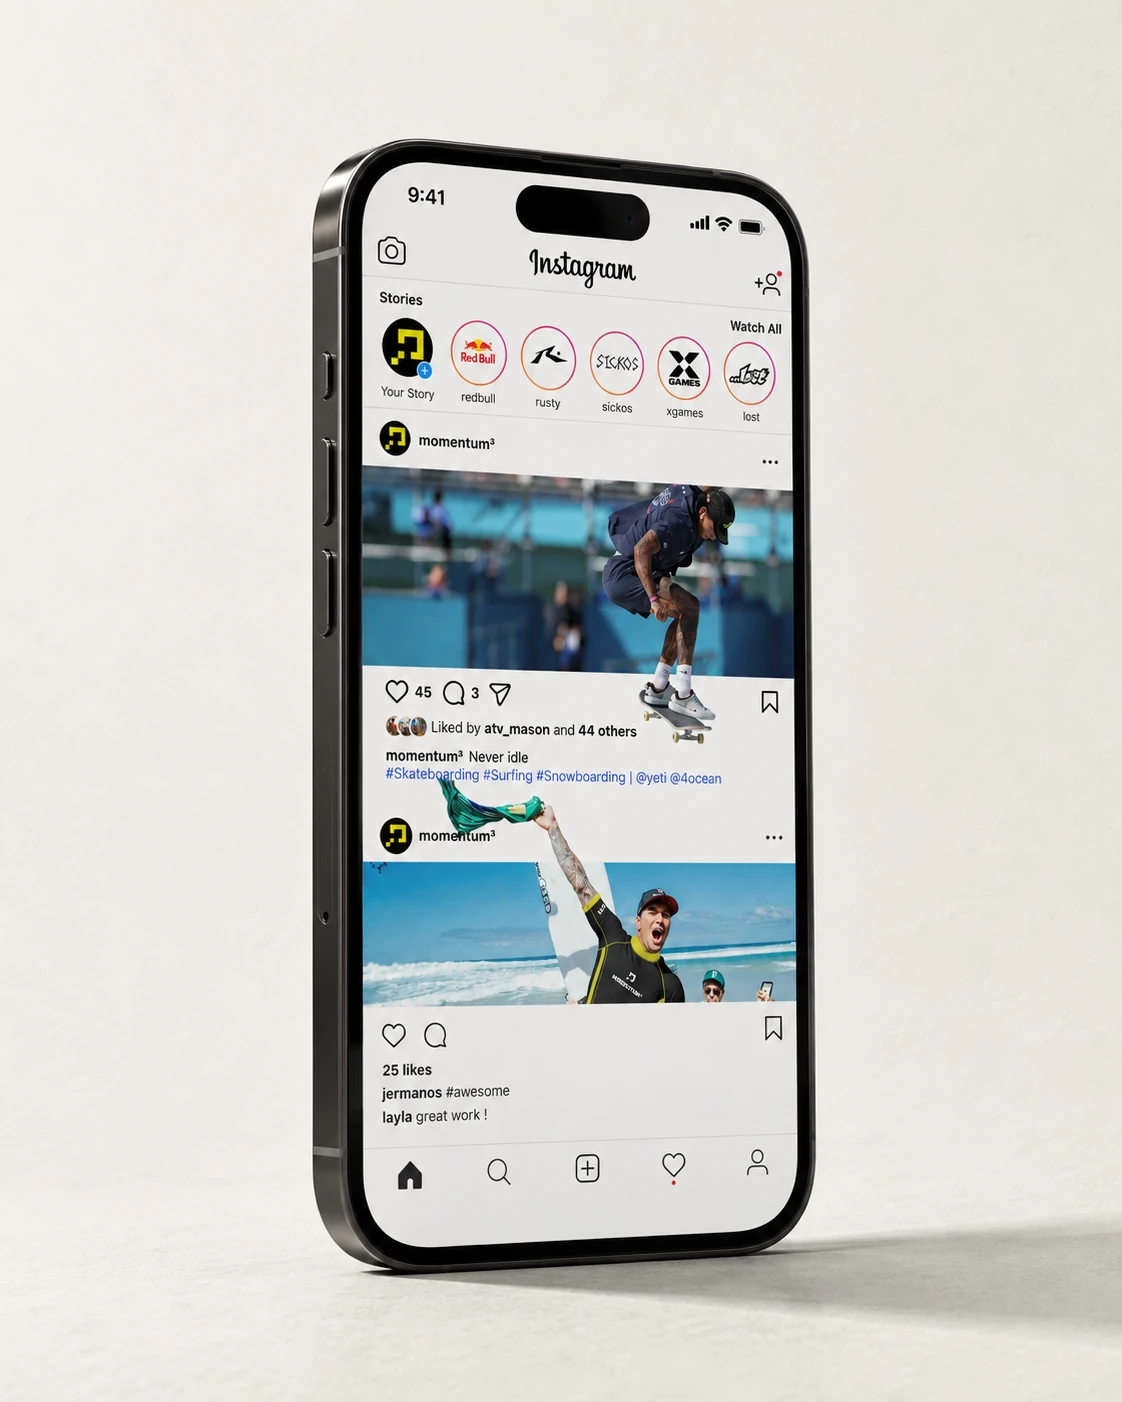
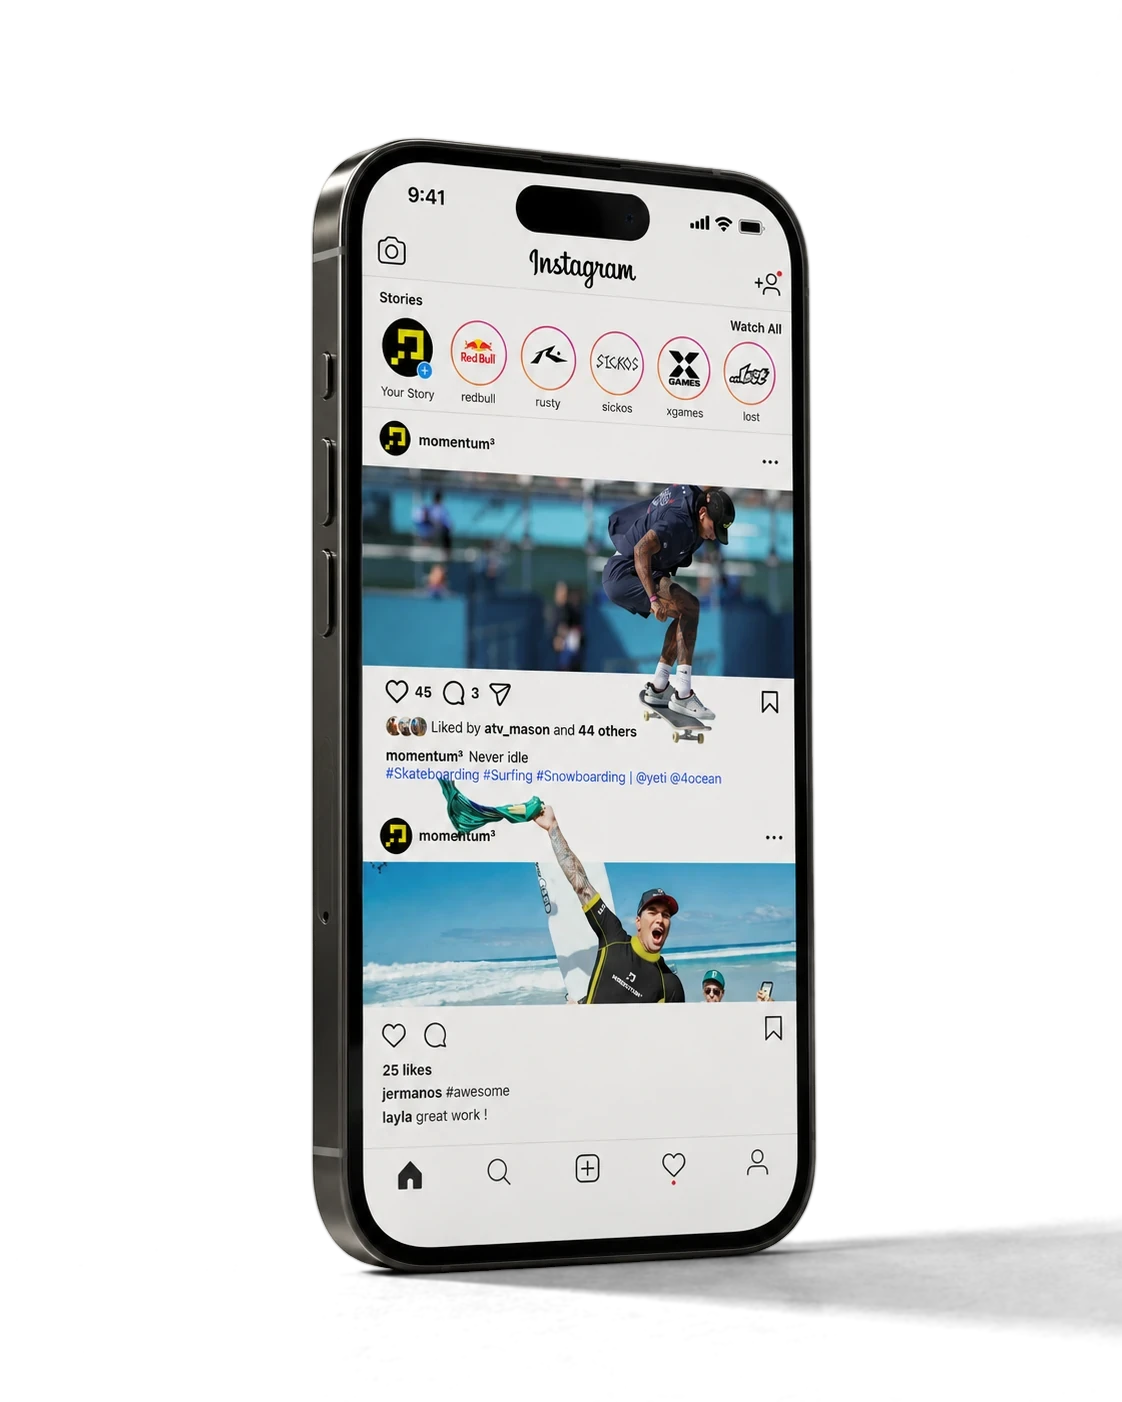
Remove studio backdrops from product shots, keeping their shadows
12 images (Momentum3 beanie, cap, lanyard, Instagram phones, stickers;
Nothing But Time package, front, back, insert; Cold Blooded cover mockup;
Harbert Magazine) are now transparent WebP: BiRefNet cut-out plus the cast
shadow rebuilt from how much darker each pixel is than the fitted backdrop.
Originals kept in source-images/original-backgrounds/. People, scenes, logo
marks and the Gala program keep their backgrounds.

Claude-Session: https://claude.ai/code/session_01DhPkWn1iJcPrSXuLo8KnQR

diff --git a/src/data/projects.js b/src/data/projects.js
@@ -30,7 +30,7 @@ export const projects = [
       'Cold Blooded booklet spreads laid out at an angle, including the Kaillie Humphries feature and “04 The Legends” opener.'
     ),
     hero: img(
-      '/images/cold-blooded/cover-mockup.jpg',
+      '/images/cold-blooded/cover-mockup.webp',
       512,
       342,
       'Cold Blooded booklet cover on a grey surface: title over a grid of black-and-white athlete photos and blue squares.',
@@ -171,13 +171,13 @@ export const projects = [
       { label: 'Typeface', text: 'IBM Plex Mono', large: true }
     ],
     cover: img(
-      '/images/nothing-but-time/package-front-back.jpg',
+      '/images/nothing-but-time/package-front-back.webp',
       2000,
       1790,
       'Nothing But Time album package: orange collage front sleeve and blue collage back sleeve, each with a green vinyl record sliding out.'
     ),
     hero: img(
-      '/images/nothing-but-time/package-front-back.jpg',
+      '/images/nothing-but-time/package-front-back.webp',
       2000,
       1790,
       'Nothing But Time album package: orange collage front sleeve and blue collage back sleeve, each with a green vinyl record sliding out.'
@@ -269,7 +269,7 @@ export const projects = [
     role: 'During my internship at Media Production Group at Auburn University, I contributed to a variety of branding, editorial, and promotional design projects for Auburn University and its partners. I contributed on the Harbert Magazine, the Winchester Gala Program, Harbert College of Business merchandise, and the visual identity for the We Spoke Podcast, while also creating digital and print assets for event promotions. I helped develop cohesive visual systems across multiple platforms, focused on strong storytelling, consistency, and professional communication.',
     tools: null,
     cover: img(
-      '/images/experience/harbert-magazine.jpg',
+      '/images/experience/harbert-magazine.webp',
       1328,
       1648,
       'Harbert Magazine, Fall 2025 cover: “A Prepared Mind” spelled in Scrabble tiles on a wooden table.'
@@ -292,7 +292,7 @@ export const projects = [
             'Back of a navy T-shirt with an orange Harbert Graduate Business Programs crest featuring an eagle and campus buildings.'
           ),
           img(
-            '/images/experience/harbert-magazine.jpg',
+            '/images/experience/harbert-magazine.webp',
             1328,
             1648,
             'Harbert Magazine, Fall 2025 cover: “A Prepared Mind” spelled in Scrabble tiles on a wooden table.'

diff --git a/tools/remove_backgrounds.py b/tools/remove_backgrounds.py
@@ -1,0 +1,66 @@
+# Background removal used for the product shots (run with: pip install "rembg[cpu]" scipy pillow numpy).
+# python3 tools/remove_backgrounds.py <input image> <output.webp> <preview.jpg>
+# Originals are kept in source-images/original-backgrounds/.
+"""Remove a plain studio backdrop while keeping the cast shadow.
+object alpha  : BiRefNet segmentation (rembg)
+backdrop      : smooth quadratic surface fitted to the image border (shadow-free)
+shadow alpha  : how much darker than the backdrop each pixel is (multiplicative),
+                stored as black with that alpha so it darkens whatever it sits on."""
+import sys, numpy as np
+from PIL import Image
+from scipy.ndimage import gaussian_filter, binary_fill_holes
+from rembg import remove, new_session
+
+_sess = None
+def session():
+    global _sess
+    if _sess is None: _sess = new_session('birefnet-general')
+    return _sess
+
+def fit_backdrop(img, frame=0.05):
+    h, w, _ = img.shape
+    yy, xx = np.mgrid[0:h, 0:w]
+    m = np.zeros((h, w), bool); fh, fw = max(2, int(h * frame)), max(2, int(w * frame))
+    m[:fh] = m[-fh:] = True; m[:, :fw] = m[:, -fw:] = True
+    X = np.stack([np.ones_like(xx), xx / w, yy / h, (xx / w) ** 2, (yy / h) ** 2, (xx / w) * (yy / h)], -1).astype(np.float32)
+    out = np.zeros_like(img)
+    L = img.mean(-1)
+    sel = m.copy()
+    for _ in range(3):  # robust: drop dark outliers (stray shadow at the border) and refit
+        A = X[sel]
+        coefs = [np.linalg.lstsq(A, img[..., c][sel], rcond=None)[0] for c in range(3)]
+        fit = np.stack([X @ k for k in coefs], -1)
+        resid = L - fit.mean(-1)
+        sel = m & (resid > -0.025)
+    return np.clip(fit, 1e-3, 1)
+
+def cutout(src, dst, dead=0.02, soften=1.0, obj_mask_out=None):
+    im = Image.open(src).convert('RGB')
+    rgb = np.asarray(im).astype(np.float32) / 255
+    a_o = np.asarray(remove(im, session=session(), only_mask=True)).astype(np.float32) / 255
+    # Close interior holes the model can leave inside an object (solid within its outline).
+    solid = binary_fill_holes(a_o > 0.5)
+    a_o = np.where(solid, np.maximum(a_o, 1.0), a_o)
+    B = fit_backdrop(rgb)
+    r = (rgb.mean(-1)) / B.mean(-1)
+    a_s = np.clip((1 - r - dead) / (1 - dead), 0, 1)
+    a_s = gaussian_filter(a_s, soften)
+    a = a_o + (1 - a_o) * a_s
+    color = np.where(a[..., None] > 1e-4, (a_o[..., None] * rgb) / np.maximum(a[..., None], 1e-4), 0)
+    out = np.dstack([np.clip(color, 0, 1), a])
+    Image.fromarray((out * 255 + 0.5).astype(np.uint8), 'RGBA').save(dst, 'WEBP', quality=90, alpha_quality=100, method=6)
+    if obj_mask_out: Image.fromarray((a_o * 255).astype(np.uint8)).save(obj_mask_out)
+    return dict(edge_backdrop=tuple(int(x * 255) for x in B[0, 0]), max_shadow=float(a_s.max()))
+
+def preview(dst, prev, bgs=((226, 227, 216), (237, 238, 229), (13, 13, 13))):
+    im = Image.open(dst).convert('RGBA'); w, h = im.size; s = 420 / max(w, h)
+    t = im.resize((int(w * s), int(h * s)), Image.LANCZOS)
+    sheet = Image.new('RGB', (t.width * 4 + 30, t.height), (255, 0, 255))
+    orig = Image.open(sys.argv[1]).convert('RGB').resize(t.size, Image.LANCZOS); sheet.paste(orig, (0, 0))
+    for k, c in enumerate(bgs):
+        bg = Image.new('RGB', t.size, c); bg.paste(t, (0, 0), t); sheet.paste(bg, ((k + 1) * (t.width + 10), 0))
+    sheet.save(prev)
+
+if __name__ == '__main__':
+    print(cutout(sys.argv[1], sys.argv[2]))
+    preview(sys.argv[2], sys.argv[3])

diff --git a/IMAGE_REPLACEMENTS.md b/IMAGE_REPLACEMENTS.md
@@ -45,3 +45,17 @@ smallest are the collage detail crops (hand marks 400 × 250, halftone 650 × 75
 layered paper 800 × 550), the eye motif crops (700 × 330, 540 × 330), the
 mark-making study (666 × 882) and the Side A label (760 × 760) — larger exports
 of these would let them display bigger.
+
+## Backgrounds removed (shadows kept)
+
+These product shots had their plain studio backdrop removed with
+`tools/remove_backgrounds.py` (BiRefNet cut-out + the cast shadow rebuilt as a
+soft transparent shadow): Momentum³ beanie, cap, lanyard/badge, both Instagram
+phones, sticker sheet; Nothing But Time package, front, back and insert spread;
+Cold Blooded cover mockup; Harbert Magazine. The originals are kept, unchanged,
+in `source-images/original-backgrounds/` (not deployed).
+
+Left with their backgrounds on purpose: photos of people (beanie/cap/hoodie
+models, Harbert tees — they are cropped at the frame edge), scenes (arch, tower,
+surfer, Cold Blooded flat-lay), the three logo marks, and the Gala program (its
+navy fabric texture can't be separated cleanly from the shadow).
